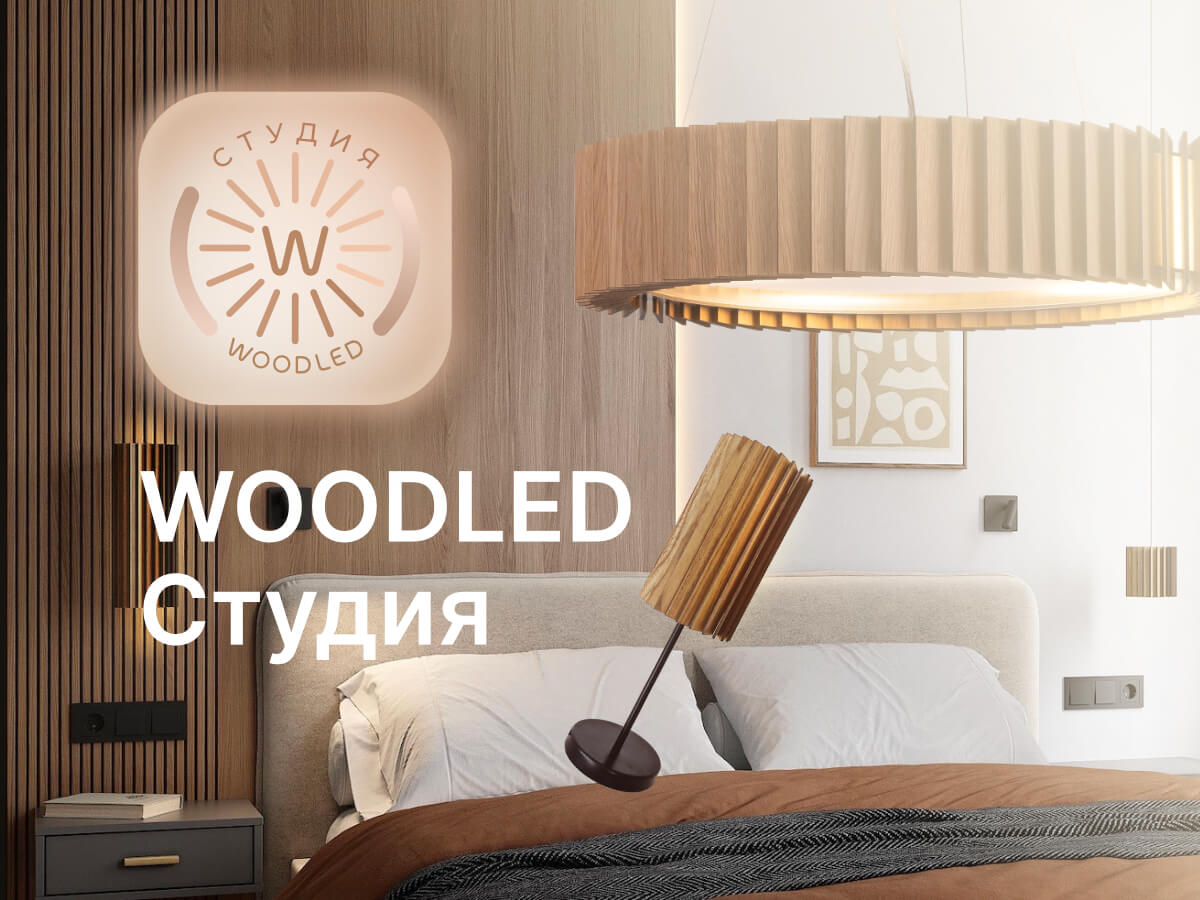
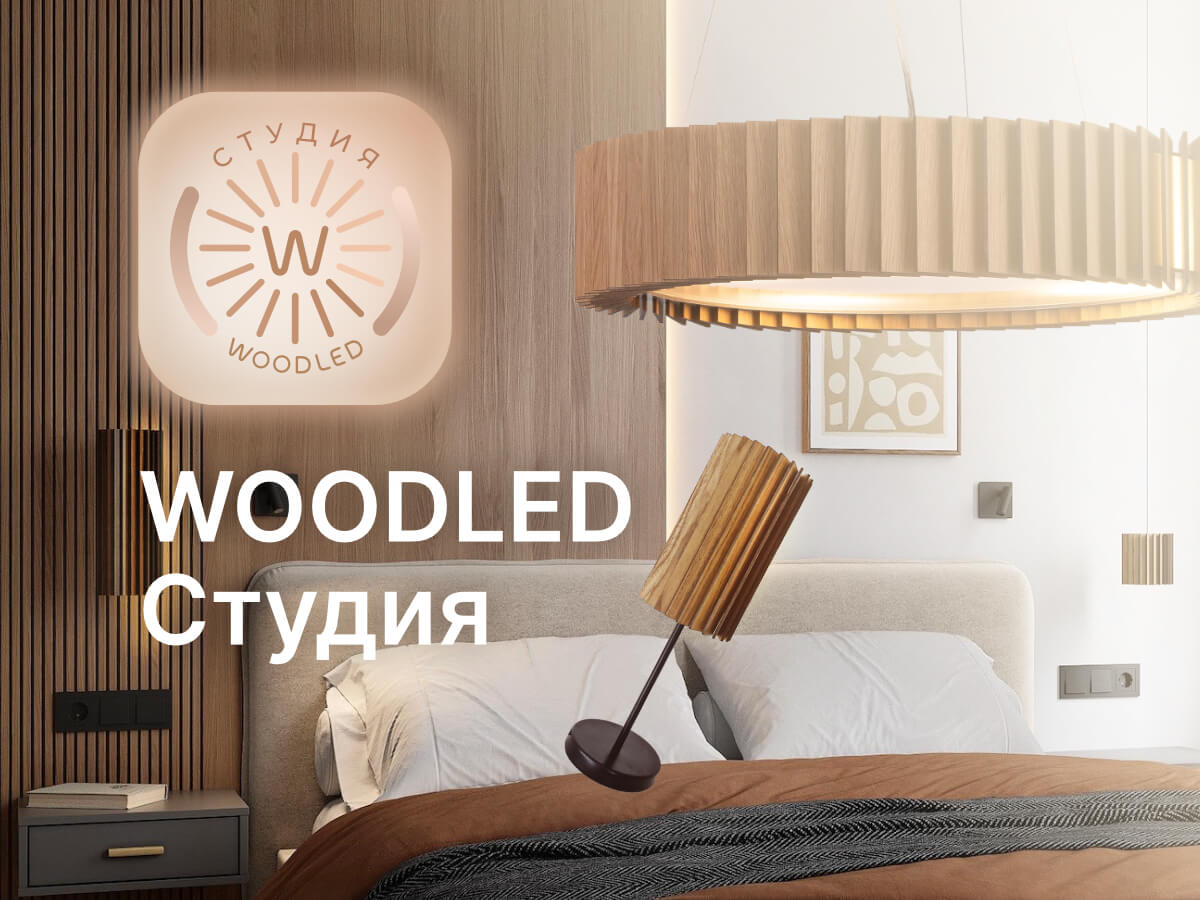
fix(app-page): swap images + overlay preloader until images load
fix(app-page): swap images + overlay preloader until images load

- INSTALL_IMG ↔ NOTIFY_IMG: alerts.jpg → notify section, notify.jpg → install section
- Локальный overlay-preloader (тёмный + спиннер) держится пока
  все три картинки hero/alerts/notify не загрузятся, или 6с safety.
- Якорная навигация #install/#notify работает после assets ready.

diff --git a/.vitepress/lp/AppPage.vue b/.vitepress/lp/AppPage.vue
@@ -20,8 +20,8 @@ import { getPushState, enablePush, disablePush, type PushState } from './pwa-pus
 
 const ICON_URL = '/woodled-studio/apple-touch-icon.png'
 const HERO_IMG = '/woodled-studio/app/hero.jpg'
-const INSTALL_IMG = '/woodled-studio/app/alerts.jpg'
-const NOTIFY_IMG = '/woodled-studio/app/notify.jpg'
+const INSTALL_IMG = '/woodled-studio/app/notify.jpg'  // Safari «Поделиться → На экран Домой»
+const NOTIFY_IMG = '/woodled-studio/app/alerts.jpg'   // системный запрос разрешения уведомлений
 const APP_URL = '/woodled-studio/customizer'
 const router = useRouter()
 
@@ -29,6 +29,38 @@ const router = useRouter()
 // пользователя. Хранится как объект PushState — рендеримся по `.kind`.
 const pushState = ref<PushState | null>(null)
 const pushBusy = ref(false)
+
+// Локальный overlay-preloader. Держит экран тёмным пока все три картинки
+// /app/hero.jpg, alerts.jpg, notify.jpg не загрузятся (или не истёк MAX_WAIT).
+// Это критично потому что страница без картинок выглядит как набор пустых
+// плейсхолдер-блоков — не хочется чтобы пользователь видел «полусобранную»
+// страницу. Boot-loader из config.mts здесь не сработает (он только в
+// standalone PWA), PageFade слишком короткий (1200мс).
+const assetsReady = ref(false)
+const assetsHidden = ref(false)  // полное удаление из DOM после fade-out
+const MAX_WAIT_MS = 6000          // safety: если CDN упал — не показываем чёрный экран бесконечно
+
+function preloadImage(url: string): Promise<void> {
+  return new Promise((resolve) => {
+    const img = new Image()
+    img.onload = () => resolve()
+    img.onerror = () => resolve()  // даже если 404 — снимаем overlay, не зависаем
+    img.src = url
+  })
+}
+
+async function waitForAssets() {
+  const all = Promise.all([
+    preloadImage(HERO_IMG),
+    preloadImage(INSTALL_IMG),
+    preloadImage(NOTIFY_IMG),
+  ])
+  const timeout = new Promise<void>((r) => setTimeout(r, MAX_WAIT_MS))
+  await Promise.race([all, timeout])
+  assetsReady.value = true
+  // удалить overlay из DOM после fade-анимации (400мс)
+  setTimeout(() => { assetsHidden.value = true }, 450)
+}
 
 /**
  * Возврат «В приложение». Всегда уходим на /customizer через VitePress
@@ -83,14 +115,19 @@ onMounted(() => {
   // зависает с подсказкой «С VPN такое бывает».
   ;(window as unknown as { __wlBoot?: { clear: () => void } }).__wlBoot?.clear()
 
-  // Anchor-навигация: если пришли с #install / #notify — плавный скролл
-  const hash = window.location.hash
-  if (hash) {
-    requestAnimationFrame(() => {
-      const el = document.querySelector(hash)
-      if (el) el.scrollIntoView({ behavior: 'smooth', block: 'start' })
-    })
-  }
+  // Запустить локальный overlay-preloader (ждёт загрузки 3 картинок)
+  waitForAssets().then(() => {
+    // Якорная навигация только ПОСЛЕ загрузки картинок —
+    // иначе scrollIntoView ловит ещё пустые блоки.
+    const hash = window.location.hash
+    if (hash) {
+      requestAnimationFrame(() => {
+        const el = document.querySelector(hash)
+        if (el) el.scrollIntoView({ behavior: 'smooth', block: 'start' })
+      })
+    }
+  })
+
   // Подтянуть состояние push (поддержка/разрешение/подписка)
   refreshPush()
 })
@@ -122,6 +159,36 @@ const notifySteps = [
 </script>
 
 <template>
+  <!-- Overlay-preloader: чёрный экран со спиннером, держится пока 3
+       картинки не загрузятся (или 6с safety). Без него пользователь
+       видел бы недособранные плейсхолдеры. -->
+  <div
+    v-if="!assetsHidden"
+    :style="{
+      position: 'fixed',
+      inset: 0,
+      zIndex: 2147483646,
+      background: '#0A0908',
+      display: 'flex',
+      alignItems: 'center',
+      justifyContent: 'center',
+      opacity: assetsReady ? 0 : 1,
+      transition: 'opacity 400ms ease',
+      pointerEvents: assetsReady ? 'none' : 'auto',
+    }"
+  >
+    <div
+      :style="{
+        width: '36px',
+        height: '36px',
+        border: '2px solid rgba(245, 235, 224, 0.16)',
+        borderTopColor: '#E0C882',
+        borderRadius: '50%',
+        animation: 'appPagePreloaderSpin 1s linear infinite',
+      }"
+    />
+  </div>
+
   <div
     class="app-page-root"
     :style="{
@@ -693,6 +760,14 @@ const notifySteps = [
     </div><!-- /контентный слой z-index 1 -->
   </div>
 </template>
+
+<style>
+/* Глобальный (не scoped) — иначе Vue хеширует имя keyframes,
+   а inline-style animation:'appPagePreloaderSpin ...' уже не находит его. */
+@keyframes appPagePreloaderSpin {
+  to { transform: rotate(360deg); }
+}
+</style>
 
 <style scoped>
 .app-page-root :deep(strong) {